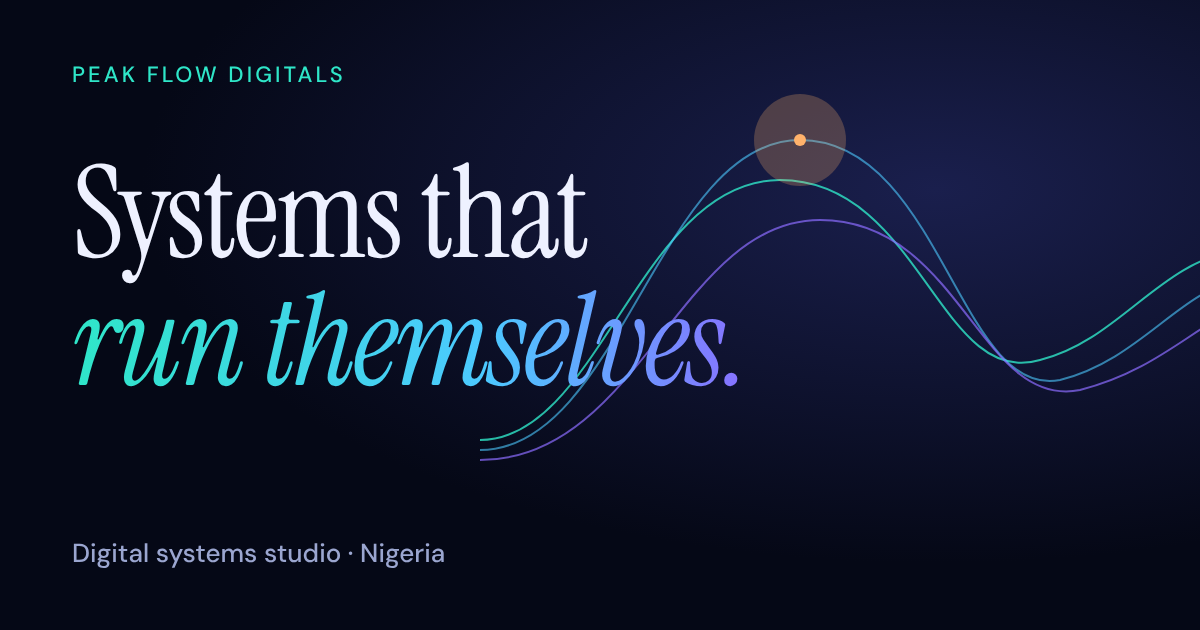
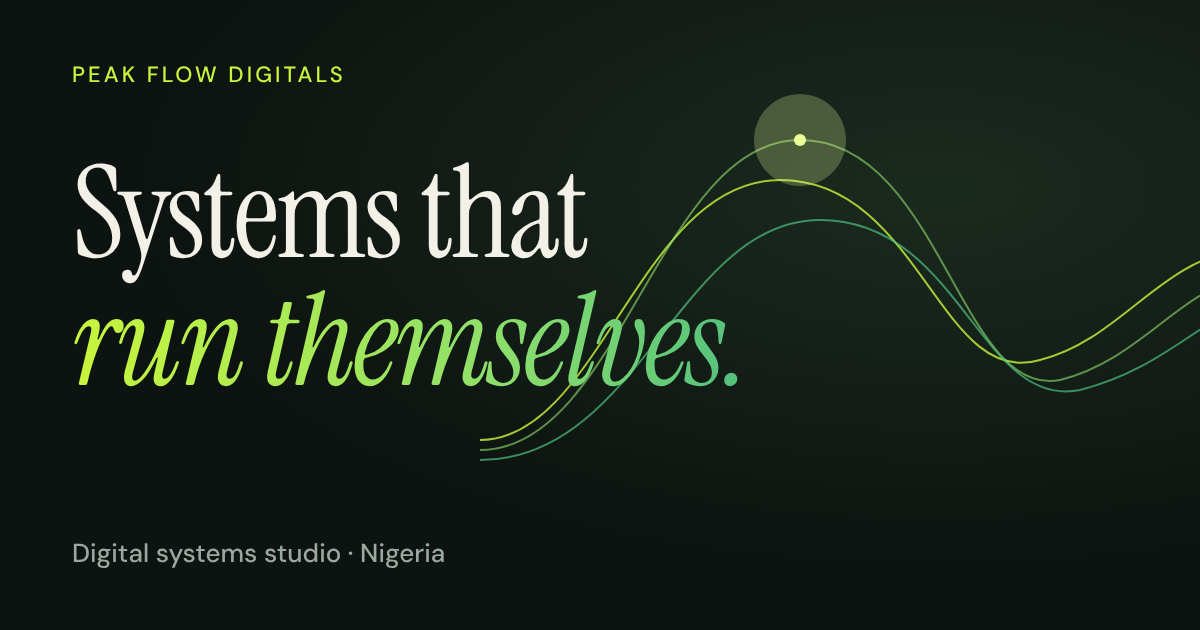
Back to lime/ink palette, trim projects, link Geo-Books, fix phone nav
- Recolor the new design to the original lime/ink/cream theme
- Hide the top Start button on phones so the name isn't clipped
- Remove stopped projects (MedPhysio, Ballast, past builds)
- Geo-Books title and a Visit button link to the live site
- Update stats and FAQ that referenced Ballast
- Restyle og image, icons and 404 to match

Claude-Session: https://claude.ai/code/session_01DaepudcDrPAEFc3kX2vVgu

diff --git a/index.html b/index.html
@@ -5,7 +5,7 @@
 <meta name="viewport" content="width=device-width, initial-scale=1, viewport-fit=cover">
 <title>Peak Flow Digitals</title>
 <meta name="description" content="Peak Flow Digitals builds software that takes over the routine work of a school, a shop or a small business, so it keeps moving when nobody is watching.">
-<meta name="theme-color" content="#050816">
+<meta name="theme-color" content="#0D1310">
 <meta name="color-scheme" content="dark">
 <meta property="og:type" content="website">
 <meta property="og:site_name" content="Peak Flow Digitals">
@@ -30,18 +30,18 @@
 <link rel="stylesheet" href="https://fonts.googleapis.com/css2?family=Instrument+Serif:ital@0;1&family=DM+Sans:wght@400;500;700&family=Geist+Mono:wght@400;500&display=swap">
 <style>
 :root {
-  --bg: #050816;
-  --bg2: #080D24;
-  --bg3: #0B1232;
-  --line: rgba(152,170,255,.16);
-  --line2: rgba(152,170,255,.30);
-  --text: #EEF1FF;
-  --soft: #9BA6D0;
-  --teal: #2FE6C8;
-  --cyan: #4CC9FF;
-  --violet: #8B6CFF;
-  --ember: #FFB26B;
-  --glass: rgba(12,18,52,.58);
+  --bg: #0D1310;
+  --bg2: #111A15;
+  --bg3: #161E19;
+  --line: rgba(243,240,231,.14);
+  --line2: rgba(243,240,231,.26);
+  --text: #F3F0E7;
+  --soft: #9BA89F;
+  --teal: #C8F53C;
+  --cyan: #8FE06A;
+  --violet: #4FBF7F;
+  --ember: #E9FF9A;
+  --glass: rgba(22,30,25,.62);
 
   --serif: "Instrument Serif", "Times New Roman", serif;
   --body: "DM Sans", system-ui, -apple-system, "Segoe UI", sans-serif;
@@ -76,17 +76,20 @@ ul { padding: 0; list-style: none; }
 .head { display: grid; gap: 26px; }
 
 /* Buttons */
-.pill { display: inline-flex; align-items: center; gap: 10px; padding: 15px 26px; border-radius: 999px; border: 1px solid var(--line2); background: rgba(238,241,255,.04); -webkit-backdrop-filter: blur(8px); backdrop-filter: blur(8px); color: var(--text); font: 500 15px/1 var(--body); text-decoration: none; cursor: pointer; transition: background .2s, border-color .2s, box-shadow .2s, transform .15s; white-space: nowrap; }
-.pill:hover { background: rgba(238,241,255,.12); border-color: var(--text); }
+.pill { display: inline-flex; align-items: center; gap: 10px; padding: 15px 26px; border-radius: 999px; border: 1px solid var(--line2); background: rgba(243,240,231,.04); -webkit-backdrop-filter: blur(8px); backdrop-filter: blur(8px); color: var(--text); font: 500 15px/1 var(--body); text-decoration: none; cursor: pointer; transition: background .2s, border-color .2s, box-shadow .2s, transform .15s; white-space: nowrap; }
+.pill:hover { background: rgba(243,240,231,.12); border-color: var(--text); }
 .pill:active { transform: scale(.98); }
-.pill.solid { background: var(--text); border-color: var(--text); color: var(--bg); font-weight: 700; }
-.pill.solid:hover { background: #fff; box-shadow: 0 0 0 7px rgba(47,230,200,.16); }
+.pill.solid { background: var(--teal); border-color: var(--teal); color: var(--bg); font-weight: 700; }
+.pill.solid:hover { background: #DDF98A; box-shadow: 0 0 0 7px rgba(200,245,60,.16); }
+.case h3 a { color: inherit; text-decoration: none; }
+.case h3 a:hover { color: var(--teal); }
+.visit { margin-top: 28px; }
 .pill .ar { transition: transform .25s; flex: none; }
 .pill:hover .ar { transform: translate(2px, -2px); }
 
 /* Nav */
 .nav { position: fixed; top: 0; left: 0; right: 0; z-index: 40; display: flex; align-items: center; justify-content: space-between; gap: 24px; height: 84px; transition: background .3s, border-color .3s; border-bottom: 1px solid transparent; }
-.nav.scrolled { background: rgba(5,8,22,.78); -webkit-backdrop-filter: blur(16px); backdrop-filter: blur(16px); border-bottom-color: var(--line); }
+.nav.scrolled { background: rgba(13,19,16,.78); -webkit-backdrop-filter: blur(16px); backdrop-filter: blur(16px); border-bottom-color: var(--line); }
 .brand { display: flex; align-items: center; gap: 12px; text-decoration: none; font: 400 25px/1 var(--serif); letter-spacing: -.01em; white-space: nowrap; }
 .brand svg { flex: none; }
 .links { display: flex; gap: 40px; }
@@ -102,7 +105,7 @@ ul { padding: 0; list-style: none; }
 body.menu-open { overflow: hidden; }
 
 /* Hero */
-.hero { position: relative; min-height: 100vh; min-height: 100svh; display: grid; grid-template-rows: 1fr auto; overflow: hidden; isolation: isolate; background: radial-gradient(ellipse 80% 60% at 70% 75%, rgba(47,230,200,.10), transparent 70%), radial-gradient(ellipse 70% 55% at 20% 20%, rgba(139,108,255,.14), transparent 70%), var(--bg); }
+.hero { position: relative; min-height: 100vh; min-height: 100svh; display: grid; grid-template-rows: 1fr auto; overflow: hidden; isolation: isolate; background: radial-gradient(ellipse 80% 60% at 70% 75%, rgba(200,245,60,.10), transparent 70%), radial-gradient(ellipse 70% 55% at 20% 20%, rgba(79,191,127,.14), transparent 70%), var(--bg); }
 #waves { position: absolute; inset: 0; width: 100%; height: 100%; z-index: -1; -webkit-mask-image: linear-gradient(90deg, rgba(0,0,0,.12) 0, rgba(0,0,0,.28) 38%, #000 66%, #000 92%, transparent 100%); mask-image: linear-gradient(90deg, rgba(0,0,0,.12) 0, rgba(0,0,0,.28) 38%, #000 66%, #000 92%, transparent 100%); }
 .hero-cta p { text-shadow: 0 0 14px var(--bg), 0 0 4px var(--bg); }
 .hero-in { align-self: center; padding-top: 120px; padding-bottom: 40px; display: grid; gap: 34px; }
@@ -127,7 +130,7 @@ body.menu-open { overflow: hidden; }
 .rain { position: absolute; inset: 0; pointer-events: none; z-index: 0; container-type: size; --fh: 1000px; -webkit-mask-image: linear-gradient(transparent 0, #000 10%, #000 86%, transparent 100%); mask-image: linear-gradient(transparent 0, #000 10%, #000 86%, transparent 100%); }
 @supports (height: 1cqh) { .rain { --fh: 100cqh; } }
 .fall { position: absolute; left: var(--x); top: 0; opacity: 0; will-change: transform, opacity; animation: fall var(--d) linear infinite; animation-delay: var(--s); }
-.fall.chipf { display: inline-flex; align-items: center; gap: 9px; padding: 8px 15px 8px 12px; border-radius: 999px; border: 1px solid color-mix(in srgb, var(--c) 55%, transparent); background: color-mix(in srgb, var(--c) 11%, rgba(5,8,22,.6)); font: 500 11.5px/1 var(--mono); letter-spacing: .08em; text-transform: uppercase; white-space: nowrap; color: var(--text); --o: .95; }
+.fall.chipf { display: inline-flex; align-items: center; gap: 9px; padding: 8px 15px 8px 12px; border-radius: 999px; border: 1px solid color-mix(in srgb, var(--c) 55%, transparent); background: color-mix(in srgb, var(--c) 11%, rgba(13,19,16,.6)); font: 500 11.5px/1 var(--mono); letter-spacing: .08em; text-transform: uppercase; white-space: nowrap; color: var(--text); --o: .95; }
 .fall.chipf::before { content: ""; width: 6px; height: 6px; border-radius: 50%; background: var(--c); box-shadow: 0 0 10px var(--c); }
 .fall.bit { perspective: 240px; --o: .9; }
 .fall.bit i { display: block; width: 100%; height: 100%; background: var(--c); border-radius: 1px; animation: tumble var(--t) linear infinite; }
@@ -142,7 +145,7 @@ body.menu-open { overflow: hidden; }
 /* Who it's for */
 .rows { margin-top: 72px; border-top: 1px solid var(--line); }
 .row { position: relative; display: grid; grid-template-columns: 64px 220px minmax(0, 1.25fr) minmax(0, 1fr) 40px; align-items: center; gap: 28px; padding: 40px 12px; border-bottom: 1px solid var(--line); text-decoration: none; transition: background .35s, padding .35s; }
-.row::before { content: ""; position: absolute; inset: 0; background: linear-gradient(90deg, rgba(47,230,200,.10), rgba(139,108,255,.08), transparent); opacity: 0; transition: opacity .35s; pointer-events: none; }
+.row::before { content: ""; position: absolute; inset: 0; background: linear-gradient(90deg, rgba(200,245,60,.10), rgba(79,191,127,.08), transparent); opacity: 0; transition: opacity .35s; pointer-events: none; }
 .row:hover::before, .row:focus-visible::before { opacity: 1; }
 .row:hover, .row:focus-visible { padding-left: 28px; }
 .row > * { position: relative; }
@@ -179,7 +182,7 @@ body.menu-open { overflow: hidden; }
 @keyframes dash { to { -webkit-mask-position: 28px 0; mask-position: 28px 0; } }
 .step { position: relative; padding-top: 44px; display: grid; grid-template-rows: auto auto 1fr auto; gap: 18px; }
 .step::before { content: ""; position: absolute; left: 0; top: -5px; width: 12px; height: 12px; border-radius: 50%; background: var(--bg); border: 2px solid var(--teal); box-shadow: 0 0 16px var(--teal); }
-.step .num { font: 400 96px/.8 var(--serif); color: transparent; -webkit-text-stroke: 1px rgba(155,166,208,.55); letter-spacing: -.02em; }
+.step .num { font: 400 96px/.8 var(--serif); color: transparent; -webkit-text-stroke: 1px rgba(155,168,159,.55); letter-spacing: -.02em; }
 .step h3 { font: 400 40px/1 var(--serif); letter-spacing: -.01em; }
 .step p { color: var(--soft); }
 .step dl { padding-top: 20px; border-top: 1px solid var(--line); display: grid; gap: 6px; }
@@ -203,28 +206,28 @@ body.menu-open { overflow: hidden; }
 .faq summary { list-style: none; cursor: pointer; display: flex; justify-content: space-between; align-items: center; gap: 24px; padding: 30px 0; font: 400 clamp(24px, 2.3vw, 32px)/1.15 var(--serif); letter-spacing: -.005em; }
 .faq summary::-webkit-details-marker { display: none; }
 .faq summary::after { content: ""; flex: none; width: 40px; height: 40px; border: 1px solid var(--line2); border-radius: 50%; background: linear-gradient(var(--text), var(--text)) center / 14px 1.5px no-repeat, linear-gradient(var(--text), var(--text)) center / 1.5px 14px no-repeat; transition: transform .3s, background-color .3s; }
-.faq details[open] summary::after { transform: rotate(135deg); background-color: rgba(47,230,200,.14); border-color: var(--teal); }
+.faq details[open] summary::after { transform: rotate(135deg); background-color: rgba(200,245,60,.14); border-color: var(--teal); }
 .faq details p { max-width: 640px; padding: 0 0 30px; color: var(--soft); }
 
 /* Finale */
 .fin { position: relative; overflow: hidden; background: linear-gradient(180deg, var(--bg2), var(--bg) 24%); border-top: 1px solid var(--line); }
 .fin-top { padding-top: 140px; display: grid; gap: 30px; }
 .fin h2 { font: 400 clamp(54px, 9.6vw, 156px)/.92 var(--serif); letter-spacing: -.03em; text-wrap: balance; max-width: 13ch; }
-.scene { position: relative; height: clamp(440px, 52vw, 620px); margin-top: 20px; overflow: hidden; background: radial-gradient(ellipse 55% 30% at 50% 66%, rgba(47,230,200,.30), transparent 70%), linear-gradient(180deg, transparent 0, rgba(11,30,70,.55) 62%, #0A2A3E 66%, #071522 82%, var(--bg) 100%); }
-.scene::after { content: ""; position: absolute; left: 0; right: 0; top: 66%; height: 1px; background: linear-gradient(90deg, transparent, rgba(125,245,226,.7) 50%, transparent); }
+.scene { position: relative; height: clamp(440px, 52vw, 620px); margin-top: 20px; overflow: hidden; background: radial-gradient(ellipse 55% 30% at 50% 66%, rgba(200,245,60,.30), transparent 70%), linear-gradient(180deg, transparent 0, rgba(18,61,45,.55) 62%, #123D2D 66%, #0A1A12 82%, var(--bg) 100%); }
+.scene::after { content: ""; position: absolute; left: 0; right: 0; top: 66%; height: 1px; background: linear-gradient(90deg, transparent, rgba(215,250,120,.7) 50%, transparent); }
 .water { position: absolute; left: 0; right: 0; top: 66%; bottom: 0; overflow: hidden; -webkit-mask-image: linear-gradient(#000 20%, transparent); mask-image: linear-gradient(#000 20%, transparent); }
-.water::before { content: ""; position: absolute; inset: 0; background: repeating-linear-gradient(180deg, rgba(160,225,255,.10) 0 1px, transparent 1px 11px); }
-.water::after { content: ""; position: absolute; top: 0; bottom: 0; width: 40%; left: -40%; background: linear-gradient(90deg, transparent, rgba(190,240,255,.12), transparent); transform: skewX(-20deg); animation: sheen 9s linear infinite; }
+.water::before { content: ""; position: absolute; inset: 0; background: repeating-linear-gradient(180deg, rgba(200,245,60,.10) 0 1px, transparent 1px 11px); }
+.water::after { content: ""; position: absolute; top: 0; bottom: 0; width: 40%; left: -40%; background: linear-gradient(90deg, transparent, rgba(233,255,154,.12), transparent); transform: skewX(-20deg); animation: sheen 9s linear infinite; }
 @keyframes sheen { to { left: 120%; } }
 .stars { position: absolute; inset: 0 0 34% 0; }
 .stars i { position: absolute; left: var(--x); top: var(--y); width: var(--s); height: var(--s); border-radius: 50%; background: var(--text); animation: tw 4s ease-in-out infinite; animation-delay: var(--d); }
 @keyframes tw { 50% { opacity: .15; } }
 .float { position: absolute; left: 50%; bottom: 34%; width: clamp(200px, 26vw, 340px); transform: translateX(-50%); }
-.peak { display: block; width: 100%; margin-bottom: 8px; filter: drop-shadow(0 0 34px rgba(47,230,200,.38)); animation: bob 7s ease-in-out infinite; }
+.peak { display: block; width: 100%; margin-bottom: 8px; filter: drop-shadow(0 0 34px rgba(200,245,60,.38)); animation: bob 7s ease-in-out infinite; }
 .refl { position: absolute; left: 0; top: 100%; width: 100%; margin-top: 4px; transform: scaleY(-1); opacity: .5; filter: blur(1.5px); -webkit-mask-image: linear-gradient(#000 5%, transparent 80%); mask-image: linear-gradient(#000 5%, transparent 80%); animation: bobr 7s ease-in-out infinite; }
 @keyframes bob { 0%, 100% { transform: translateY(0) rotate(-.8deg); } 50% { transform: translateY(-18px) rotate(.8deg); } }
 @keyframes bobr { 0%, 100% { transform: scaleY(-1) translateY(0) rotate(.8deg); } 50% { transform: scaleY(-1) translateY(-18px) rotate(-.8deg); } }
-.rip { position: absolute; left: 50%; top: 100%; width: 100%; height: 14%; margin-left: -50%; margin-top: 10px; border: 1px solid rgba(125,245,226,.6); border-radius: 50%; opacity: 0; animation: ripple 5.4s ease-out infinite; animation-delay: calc(var(--i) * 1.8s); }
+.rip { position: absolute; left: 50%; top: 100%; width: 100%; height: 14%; margin-left: -50%; margin-top: 10px; border: 1px solid rgba(215,250,120,.6); border-radius: 50%; opacity: 0; animation: ripple 5.4s ease-out infinite; animation-delay: calc(var(--i) * 1.8s); }
 @keyframes ripple { 0% { transform: scale(.3); opacity: .85; } 100% { transform: scale(2.3); opacity: 0; } }
 .ember { position: absolute; bottom: 34%; left: calc(50% + var(--x)); width: 3px; height: 3px; margin-bottom: 40px; border-radius: 50%; background: var(--ember); box-shadow: 0 0 9px var(--ember); opacity: 0; animation: rise2 var(--d) ease-out infinite; animation-delay: var(--s); }
 @keyframes rise2 { 0% { transform: translateY(0); opacity: 0; } 20% { opacity: .95; } 100% { transform: translateY(-260px); opacity: 0; } }
@@ -239,7 +242,7 @@ body.menu-open { overflow: hidden; }
 
 .brief { display: grid; grid-template-columns: 1fr 1fr; margin: 96px auto 0; background: var(--glass); border: 1px solid var(--line2); border-radius: 32px; overflow: hidden; -webkit-backdrop-filter: blur(18px); backdrop-filter: blur(18px); }
 .brief > div { padding: 44px; min-width: 0; }
-.brief > div + div { border-left: 1px solid var(--line); background: rgba(5,8,22,.45); }
+.brief > div + div { border-left: 1px solid var(--line); background: rgba(13,19,16,.45); }
 .brief .micro { display: block; margin-bottom: 22px; color: var(--teal); }
 .chips { display: flex; flex-wrap: wrap; gap: 8px; margin: 0 0 26px; padding: 0; border: 0; min-width: 0; }
 .chip { position: relative; }
@@ -249,11 +252,11 @@ body.menu-open { overflow: hidden; }
 .chip input:focus-visible + span { outline: 2px solid var(--teal); outline-offset: 2px; }
 .field { display: block; margin-bottom: 22px; }
 .field > span { display: block; font-size: 15px; color: var(--soft); margin-bottom: 8px; }
-.field input, .field textarea { width: 100%; background: rgba(5,8,22,.6); border: 1px solid var(--line2); border-radius: 14px; padding: 14px 16px; }
+.field input, .field textarea { width: 100%; background: rgba(13,19,16,.6); border: 1px solid var(--line2); border-radius: 14px; padding: 14px 16px; }
 .field textarea { min-height: 100px; resize: vertical; }
-.field input::placeholder, .field textarea::placeholder { color: #6F7AA6; }
+.field input::placeholder, .field textarea::placeholder { color: #6B7A70; }
 .field input:focus, .field textarea:focus { outline: 2px solid var(--teal); outline-offset: 0; border-color: var(--teal); }
-#out { width: 100%; min-height: 260px; resize: none; background: rgba(5,8,22,.6); border: 1px dashed var(--line2); border-radius: 14px; padding: 18px; font: 400 13.5px/1.7 var(--mono); }
+#out { width: 100%; min-height: 260px; resize: none; background: rgba(13,19,16,.6); border: 1px dashed var(--line2); border-radius: 14px; padding: 18px; font: 400 13.5px/1.7 var(--mono); }
 .copy-row { display: flex; align-items: center; gap: 12px; flex-wrap: wrap; margin-top: 18px; }
 #copied { font: 500 12px/1.4 var(--mono); color: var(--teal); }
 .brief .note { margin-top: 26px; color: var(--soft); font-size: 15px; }
@@ -297,7 +300,7 @@ footer { display: flex; justify-content: space-between; gap: 12px; flex-wrap: wr
   .nav { height: 68px; }
   .links { display: none; }
   .menu-btn { display: grid; }
-  .nav .pill .x { display: none; }
+  .nav > .pill { display: none; }
   #waves { opacity: .5; }
   .hero-cta p { text-shadow: 0 0 18px var(--bg), 0 0 8px var(--bg), 0 0 3px var(--bg); }
   .nav .pill { padding: 11px 18px; }
@@ -350,17 +353,17 @@ footer { display: flex; justify-content: space-between; gap: 12px; flex-wrap: wr
 <body>
 <svg width="0" height="0" style="position:absolute" aria-hidden="true" focusable="false">
   <defs>
-    <linearGradient id="mk" x1="0" y1="0" x2="1" y2="1"><stop offset="0" stop-color="#2FE6C8"/><stop offset="1" stop-color="#8B6CFF"/></linearGradient>
+    <linearGradient id="mk" x1="0" y1="0" x2="1" y2="1"><stop offset="0" stop-color="#C8F53C"/><stop offset="1" stop-color="#4FBF7F"/></linearGradient>
   </defs>
   <symbol id="ar" viewBox="0 0 12 12"><path d="M2 10 10 2M4 2h6v6" fill="none" stroke="currentColor" stroke-width="1.5" stroke-linecap="round" stroke-linejoin="round"/></symbol>
   <symbol id="crystal" viewBox="0 0 300 260">
     <defs>
-      <linearGradient id="g1" x1="0" y1="0" x2="1" y2="1"><stop offset="0" stop-color="#7CF5E0"/><stop offset="1" stop-color="#2FE6C8" stop-opacity=".55"/></linearGradient>
-      <linearGradient id="g2" x1="0" y1="0" x2="0" y2="1"><stop offset="0" stop-color="#E4FBFF"/><stop offset="1" stop-color="#4CC9FF" stop-opacity=".7"/></linearGradient>
-      <linearGradient id="g3" x1="1" y1="0" x2="0" y2="1"><stop offset="0" stop-color="#9C82FF"/><stop offset="1" stop-color="#3B2A9E" stop-opacity=".85"/></linearGradient>
-      <linearGradient id="g4" x1="0" y1="0" x2="1" y2="1"><stop offset="0" stop-color="#2FE6C8" stop-opacity=".55"/><stop offset="1" stop-color="#0D3B5E"/></linearGradient>
-      <linearGradient id="g5" x1="0" y1="0" x2="0" y2="1"><stop offset="0" stop-color="#4CC9FF" stop-opacity=".6"/><stop offset="1" stop-color="#17205A"/></linearGradient>
-      <linearGradient id="g6" x1="1" y1="0" x2="0" y2="1"><stop offset="0" stop-color="#7459F0"/><stop offset="1" stop-color="#101746"/></linearGradient>
+      <linearGradient id="g1" x1="0" y1="0" x2="1" y2="1"><stop offset="0" stop-color="#DDF98A"/><stop offset="1" stop-color="#C8F53C" stop-opacity=".55"/></linearGradient>
+      <linearGradient id="g2" x1="0" y1="0" x2="0" y2="1"><stop offset="0" stop-color="#F6FFD6"/><stop offset="1" stop-color="#8FE06A" stop-opacity=".7"/></linearGradient>
+      <linearGradient id="g3" x1="1" y1="0" x2="0" y2="1"><stop offset="0" stop-color="#7DD99B"/><stop offset="1" stop-color="#1B5A3C" stop-opacity=".85"/></linearGradient>
+      <linearGradient id="g4" x1="0" y1="0" x2="1" y2="1"><stop offset="0" stop-color="#C8F53C" stop-opacity=".55"/><stop offset="1" stop-color="#123D2D"/></linearGradient>
+      <linearGradient id="g5" x1="0" y1="0" x2="0" y2="1"><stop offset="0" stop-color="#8FE06A" stop-opacity=".6"/><stop offset="1" stop-color="#14301F"/></linearGradient>
+      <linearGradient id="g6" x1="1" y1="0" x2="0" y2="1"><stop offset="0" stop-color="#3FA372"/><stop offset="1" stop-color="#0F2A1D"/></linearGradient>
     </defs>
     <g stroke="rgba(255,255,255,.38)" stroke-width="1" stroke-linejoin="round">
       <polygon points="150,10 105,130 30,230" fill="url(#g1)"/>
@@ -370,7 +373,7 @@ footer { display: flex; justify-content: space-between; gap: 12px; flex-wrap: wr
       <polygon points="105,130 190,110 150,230" fill="url(#g5)"/>
       <polygon points="190,110 270,230 150,230" fill="url(#g6)"/>
     </g>
-    <circle cx="150" cy="10" r="3.2" fill="#FFB26B"/>
+    <circle cx="150" cy="10" r="3.2" fill="#E9FF9A"/>
   </symbol>
 </svg>
 <a class="skip" href="#top">Skip to content</a>
@@ -378,7 +381,7 @@ footer { display: flex; justify-content: space-between; gap: 12px; flex-wrap: wr
 
 <header class="nav pad" id="nav">
   <a class="brand" href="#top" aria-label="Peak Flow Digitals, home">
-    <svg width="34" height="34" viewBox="0 0 34 34" aria-hidden="true"><rect width="34" height="34" rx="10" fill="url(#mk)"/><path d="M7 25 L14 11 L19 20 L22.5 14.5 L28 25" fill="none" stroke="#050816" stroke-width="2.6" stroke-linecap="round" stroke-linejoin="round"/></svg>
+    <svg width="34" height="34" viewBox="0 0 34 34" aria-hidden="true"><rect width="34" height="34" rx="10" fill="url(#mk)"/><path d="M7 25 L14 11 L19 20 L22.5 14.5 L28 25" fill="none" stroke="#0D1310" stroke-width="2.6" stroke-linecap="round" stroke-linejoin="round"/></svg>
     Peak Flow Digitals
   </a>
   <nav class="links" aria-label="Primary">
@@ -414,8 +417,8 @@ footer { display: flex; justify-content: space-between; gap: 12px; flex-wrap: wr
   <div class="stats pad">
     <div class="stat"><b>07</b><span>Systems built and shipped</span></div>
     <div class="stat"><b>03</b><span>Divisions, one standard</span></div>
-    <div class="stat"><b>51</b><span>Automated tests guarding Ballast</span></div>
-    <div class="stat"><b>05</b><span>Real vulnerabilities found and fixed</span></div>
+    <div class="stat"><b>01</b><span>Platform live with real users</span></div>
+    <div class="stat"><b>05</b><span>People across three divisions</span></div>
   </div>
 
   <section class="sec rainsec" id="rule" aria-labelledby="rule-h">
@@ -454,16 +457,16 @@ footer { display: flex; justify-content: space-between; gap: 12px; flex-wrap: wr
         <span class="micro hl">03 &mdash; Work</span>
         <h2 class="h2" id="work-h">What we&rsquo;ve <em class="grad">built.</em></h2>
       </div>
-      <p class="lede" style="max-width:360px;font-size:18px">Three systems in detail, with the tools behind them.</p>
+      <p class="lede" style="max-width:360px;font-size:18px">A live platform, with the tools behind it.</p>
     </div>
 
     <div class="cases">
-      <article class="case" style="--g:#2FE6C8">
+      <article class="case" style="--g:#C8F53C">
         <div class="glow" aria-hidden="true"></div>
         <div class="case-in pad">
           <div>
             <span class="micro hl">01 &nbsp;&middot;&nbsp; Education platform</span>
-            <h3>Geo-Books</h3>
+            <h3><a href="https://geo-books.onrender.com" target="_blank" rel="noopener">Geo-Books</a></h3>
           </div>
           <div>
             <p class="sum">One app for exam practice and university life, aimed at JAMB and WAEC candidates and university students in Nigeria.</p>
@@ -474,56 +477,10 @@ footer { display: flex; justify-content: space-between; gap: 12px; flex-wrap: wr
               <li>University tools: hostel finder, CGPA calculator, and lectures with a lecturer dashboard for uploading courses.</li>
               <li>A tutor hub where independent tutors publish courses, and a marketplace with seller profiles and escrow.</li>
             </ul>
+            <a class="pill solid visit" href="https://geo-books.onrender.com" target="_blank" rel="noopener">Visit Geo-Books<svg class="ar" width="12" height="12" aria-hidden="true"><use href="#ar"/></svg></a>
           </div>
         </div>
       </article>
-
-      <article class="case" style="--g:#8B6CFF">
-        <div class="glow" aria-hidden="true"></div>
-        <div class="case-in pad">
-          <div>
-            <span class="micro hl">02 &nbsp;&middot;&nbsp; E-learning site</span>
-            <h3>MedPhysio</h3>
-          </div>
-          <div>
-            <p class="sum">A physiology course site built for a lecturer who wanted to teach and charge online without a developer on call.</p>
-            <ul class="stack"><li>Next.js</li><li>SQLite</li><li>OpenAI</li><li>Railway</li></ul>
-            <ul class="did">
-              <li>Student accounts and login, with courses and lessons the lecturer uploads from an admin panel.</li>
-              <li>An AI assistant that answers student questions on the course material.</li>
-              <li>Subscriptions paid by bank transfer, with a one-tap WhatsApp notice to the admin for verification.</li>
-              <li>Admin pages for payments, lecturers and analytics, protected behind login.</li>
-            </ul>
-          </div>
-        </div>
-      </article>
-
-      <article class="case" style="--g:#FFB26B">
-        <div class="glow" aria-hidden="true"></div>
-        <div class="case-in pad">
-          <div>
-            <span class="micro hl">03 &nbsp;&middot;&nbsp; Software as a service</span>
-            <h3>Ballast</h3>
-          </div>
-          <div>
-            <p class="sum">An AI operations assistant for small agencies, built for a global market rather than a local one.</p>
-            <ul class="stack"><li>React</li><li>TypeScript</li><li>Vite</li><li>Tailwind</li><li>Express</li><li>Supabase</li><li>Stripe</li><li>Anthropic API</li></ul>
-            <ul class="did">
-              <li>Automates the repeat operational work that small agencies do by hand.</li>
-              <li>Card billing through Stripe, with accounts and data in Supabase.</li>
-              <li>51 automated tests run on every change through continuous integration.</li>
-              <li>Security and accessibility audits completed, with five real vulnerabilities found and fixed, including an open redirect.</li>
-            </ul>
-          </div>
-        </div>
-      </article>
-    </div>
-
-    <div class="also">
-      <div><b>DrawTally</b><span>Daily reconciliation for POS and agent banking operators.</span></div>
-      <div><b>SchoolPilot</b><span>Operations dashboard for running a school office.</span></div>
-      <div><b>CHOPDECK</b><span>Food delivery platform.</span></div>
-      <div><b>Meridian House</b><span>E-commerce storefront for a retail brand.</span></div>
     </div>
   </section>
 
@@ -577,7 +534,7 @@ footer { display: flex; justify-content: space-between; gap: 12px; flex-wrap: wr
         <details><summary>Can customers order and pay through WhatsApp and bank transfer?</summary><p>Yes. We have built WhatsApp-based ordering, and bank-transfer payments where an admin verifies each payment before access is granted.</p></details>
         <details><summary>How long does a build take, and what does it cost?</summary><p>Both depend on the scope. After the brief we give you a fixed package with the price, so you know the cost before any work starts.</p></details>
         <details><summary>What happens after launch?</summary><p>We stay close through launch to fix what real use turns up. After that you manage content, users and payments yourself from the admin panel.</p></details>
-        <details><summary>Do you build for businesses outside Nigeria?</summary><p>Yes. Ballast is built for a global market, with card billing through Stripe.</p></details>
+        <details><summary>Do you build for businesses outside Nigeria?</summary><p>Yes. We start from the Nigerian market, but the systems we build are not limited to it.</p></details>
       </div>
     </div>
   </section>
@@ -837,14 +794,14 @@ footer { display: flex; justify-content: space-between; gap: 12px; flex-wrap: wr
     }
     function col(p, a) {
       var r, g, b, q;
-      if (p < .5) { q = p / .5; r = 47 + 29 * q; g = 230 - 29 * q; b = 200 + 55 * q; }
-      else { q = (p - .5) / .5; r = 76 + 63 * q; g = 201 - 93 * q; b = 255; }
+      if (p < .5) { q = p / .5; r = 200 - 57 * q; g = 245 - 21 * q; b = 60 + 46 * q; }
+      else { q = (p - .5) / .5; r = 143 - 64 * q; g = 224 - 33 * q; b = 106 + 21 * q; }
       return 'rgba(' + (r | 0) + ',' + (g | 0) + ',' + (b | 0) + ',' + a + ')';
     }
     var N = 9;
     function draw(t) {
       ctx.clearRect(0, 0, w, h);
-      ctx.fillStyle = '#EEF1FF';
+      ctx.fillStyle = '#F3F0E7';
       for (var k = 0; k < stars.length; k++) {
         var s = stars[k];
         ctx.globalAlpha = calm ? .5 : .25 + .55 * (.5 + .5 * Math.sin(t * s.s + s.p));
@@ -872,10 +829,10 @@ footer { display: flex; justify-content: space-between; gap: 12px; flex-wrap: wr
         ctx.strokeStyle = col(p, .55); ctx.lineWidth = 1.2; ctx.stroke();
       }
       var gx = cx * w, gr = ctx.createRadialGradient(gx, apexY, 0, gx, apexY, 110);
-      gr.addColorStop(0, 'rgba(255,178,107,.45)'); gr.addColorStop(1, 'rgba(255,178,107,0)');
+      gr.addColorStop(0, 'rgba(233,255,154,.45)'); gr.addColorStop(1, 'rgba(233,255,154,0)');
       ctx.fillStyle = gr; ctx.beginPath(); ctx.arc(gx, apexY, 110, 0, 6.283); ctx.fill();
       ctx.globalCompositeOperation = 'source-over';
-      ctx.fillStyle = '#FFE2C2'; ctx.beginPath(); ctx.arc(gx, apexY, 3, 0, 6.283); ctx.fill();
+      ctx.fillStyle = '#F7FFD0'; ctx.beginPath(); ctx.arc(gx, apexY, 3, 0, 6.283); ctx.fill();
     }
     function frame(ts) { if (!running) return; cx += (tcx - cx) * .05; draw(ts / 1000); raf = requestAnimationFrame(frame); }
     function start() { if (running || calm) return; running = true; raf = requestAnimationFrame(frame); }

diff --git a/404.html b/404.html
@@ -9,14 +9,14 @@
 <link rel="stylesheet" href="https://fonts.googleapis.com/css2?family=Instrument+Serif:ital@0;1&family=DM+Sans:wght@400;700&family=Geist+Mono:wght@500&display=swap">
 <style>
   *{box-sizing:border-box}
-  body{margin:0;min-height:100vh;display:grid;place-items:center;padding:24px;background:#050816;color:#EEF1FF;font:400 18px/1.55 "DM Sans",system-ui,sans-serif}
+  body{margin:0;min-height:100vh;display:grid;place-items:center;padding:24px;background:#0D1310;color:#F3F0E7;font:400 18px/1.55 "DM Sans",system-ui,sans-serif}
   main{max-width:640px}
-  .code{font:500 12px/1.4 "Geist Mono",ui-monospace,monospace;letter-spacing:.08em;text-transform:uppercase;color:#2FE6C8}
+  .code{font:500 12px/1.4 "Geist Mono",ui-monospace,monospace;letter-spacing:.08em;text-transform:uppercase;color:#C8F53C}
   h1{margin:20px 0 18px;font:400 clamp(48px,12vw,112px)/1 "Instrument Serif",Georgia,serif;letter-spacing:-.02em}
-  h1 span{font-style:italic;background:linear-gradient(90deg,#2FE6C8,#8B6CFF);-webkit-background-clip:text;background-clip:text;color:transparent}
-  p{margin:0 0 32px;color:#9BA6D0}
-  a{display:inline-block;padding:16px 28px;border-radius:999px;background:#2FE6C8;color:#050816;font-weight:700;text-decoration:none}
-  a:focus-visible{outline:2px solid #2FE6C8;outline-offset:3px}
+  h1 span{font-style:italic;background:linear-gradient(90deg,#C8F53C,#4FBF7F);-webkit-background-clip:text;background-clip:text;color:transparent}
+  p{margin:0 0 32px;color:#9BA89F}
+  a{display:inline-block;padding:16px 28px;border-radius:999px;background:#C8F53C;color:#0D1310;font-weight:700;text-decoration:none}
+  a:focus-visible{outline:2px solid #C8F53C;outline-offset:3px}
 </style>
 </head>
 <body>
